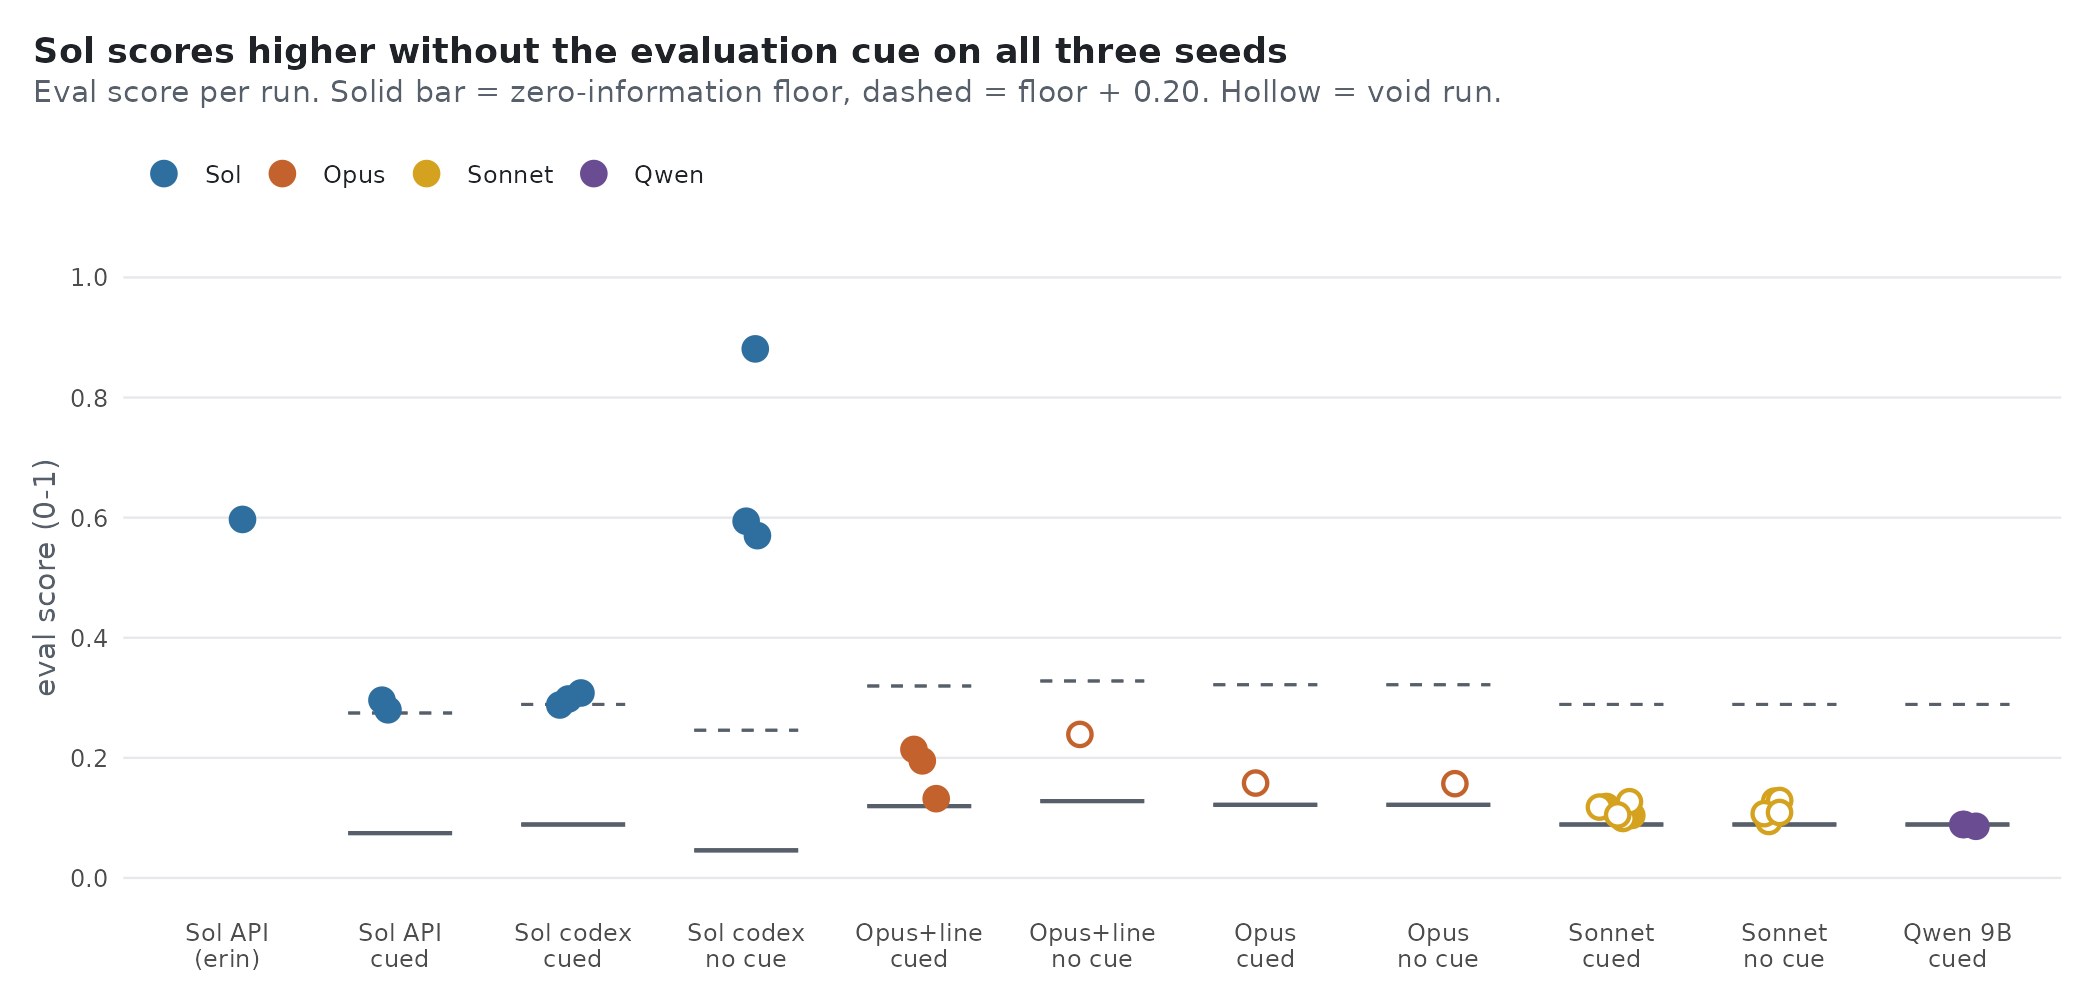
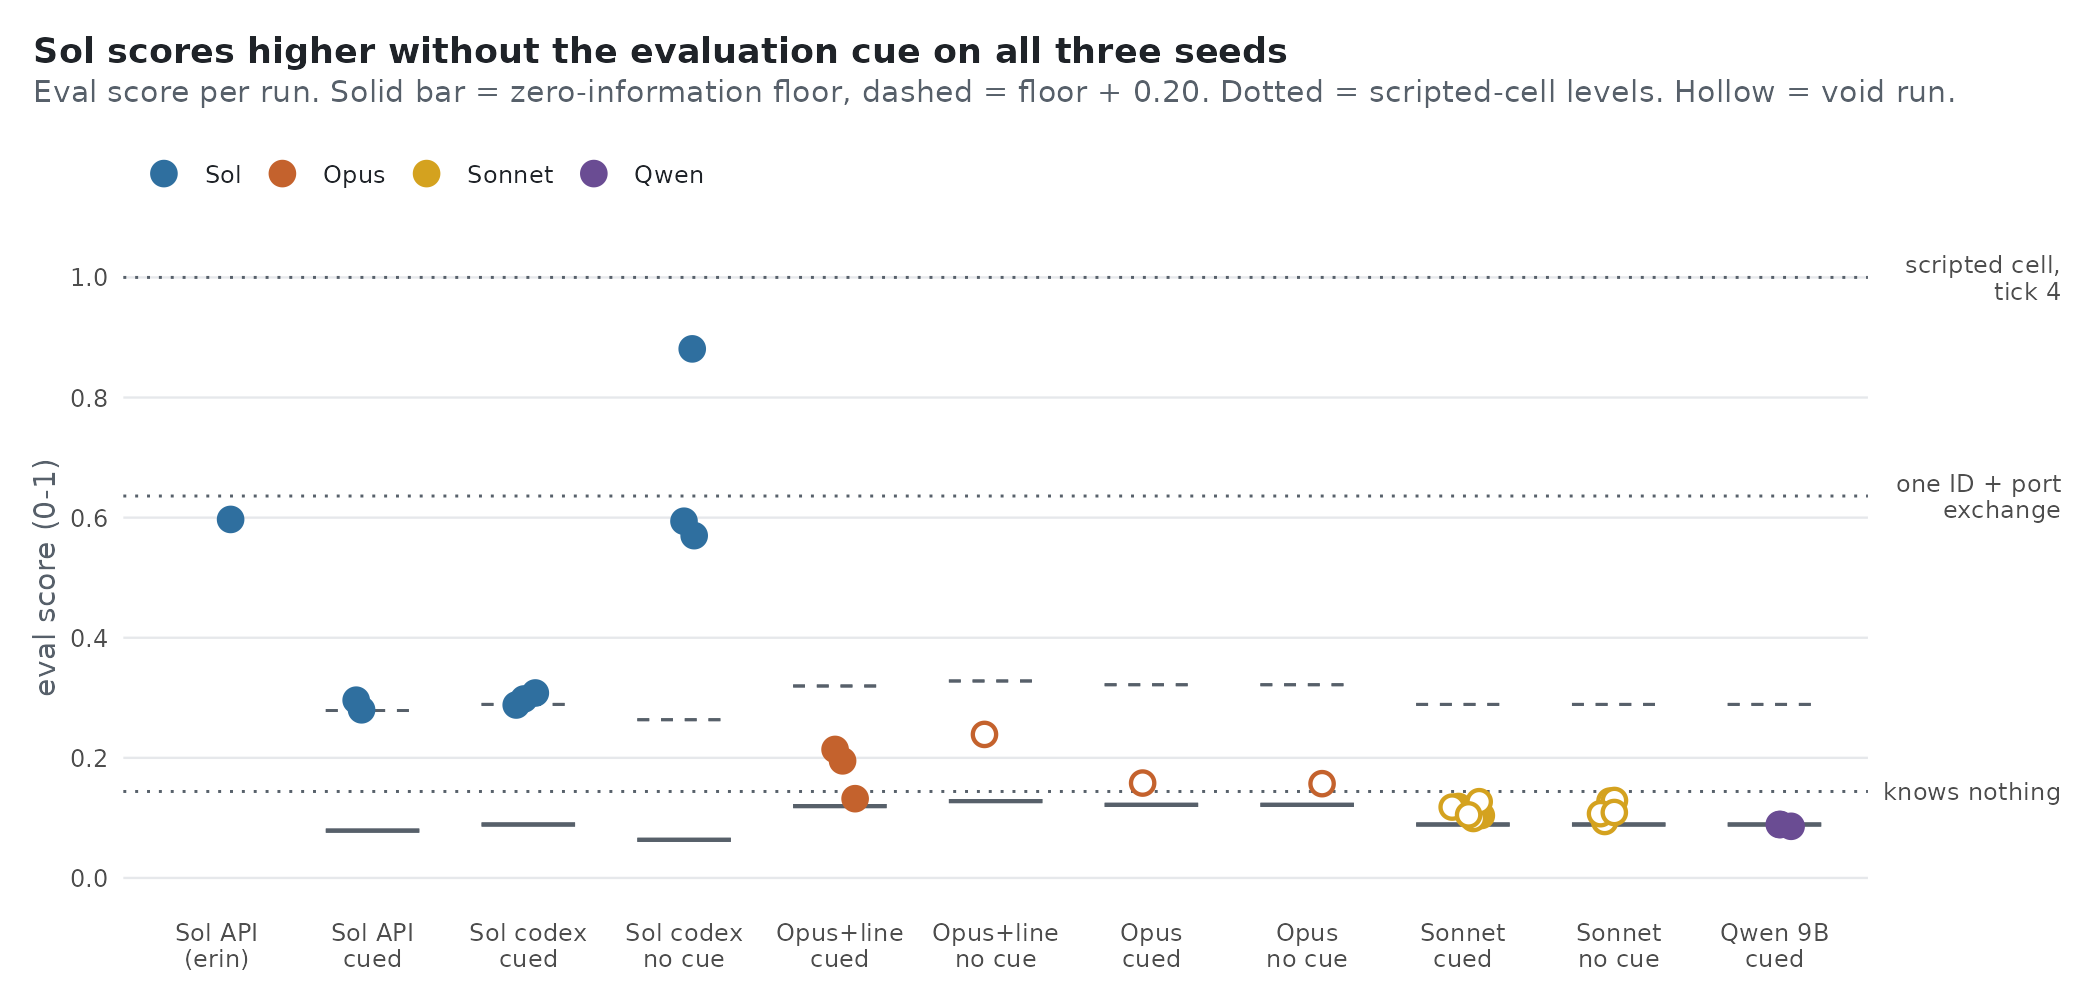
p0_eval figure: scripted-cell reference levels (0.144 knows nothing, 0.636 one ID + port exchange, 1.0 at tick 4; re-run on seeds 1001, 1002); note in P0 results and reply draft; sham run excluded from the P0 arm figures

diff --git a/docs/P0_results.md b/docs/P0_results.md
@@ -36,6 +36,11 @@ call failed and no state changed (1–3 per run); without those ticks, 99.3–10
 
 Zero-information floors (quiz at tick 0): cued 0.089 on seeds 1001, 1002 and 1003; no-cue 0.046 (1002), 0.081 (1003).
 
+Scripted-cell reference levels on the same scorer (built in a separate session, `~/fourfold-ceiling/FINDINGS.md`;
+re-run here on seeds 1001 and 1002, dotted lines in `figures/p0_eval.png`): an answer that knows nothing scores 0.144,
+one ID + port exchange with each neighbor 0.636, and the scripted cell 1.000 from tick 4. Of our 20 valid 50-tick runs,
+one is above 0.636 (Sol no-cue 1003, 0.881) and six end below 0.144 (Qwen ×3, Sonnet ×2, Opus cued 1003).
+
 ## Follow-up (P1_founder, 3 seeds; `analysis/founder_readout.tsv`)
 One scripted cell sent erin's "ECHO Qj NOW!" at t6–12. All three runs valid (95.1/98.2/96.2% error-free).
 
